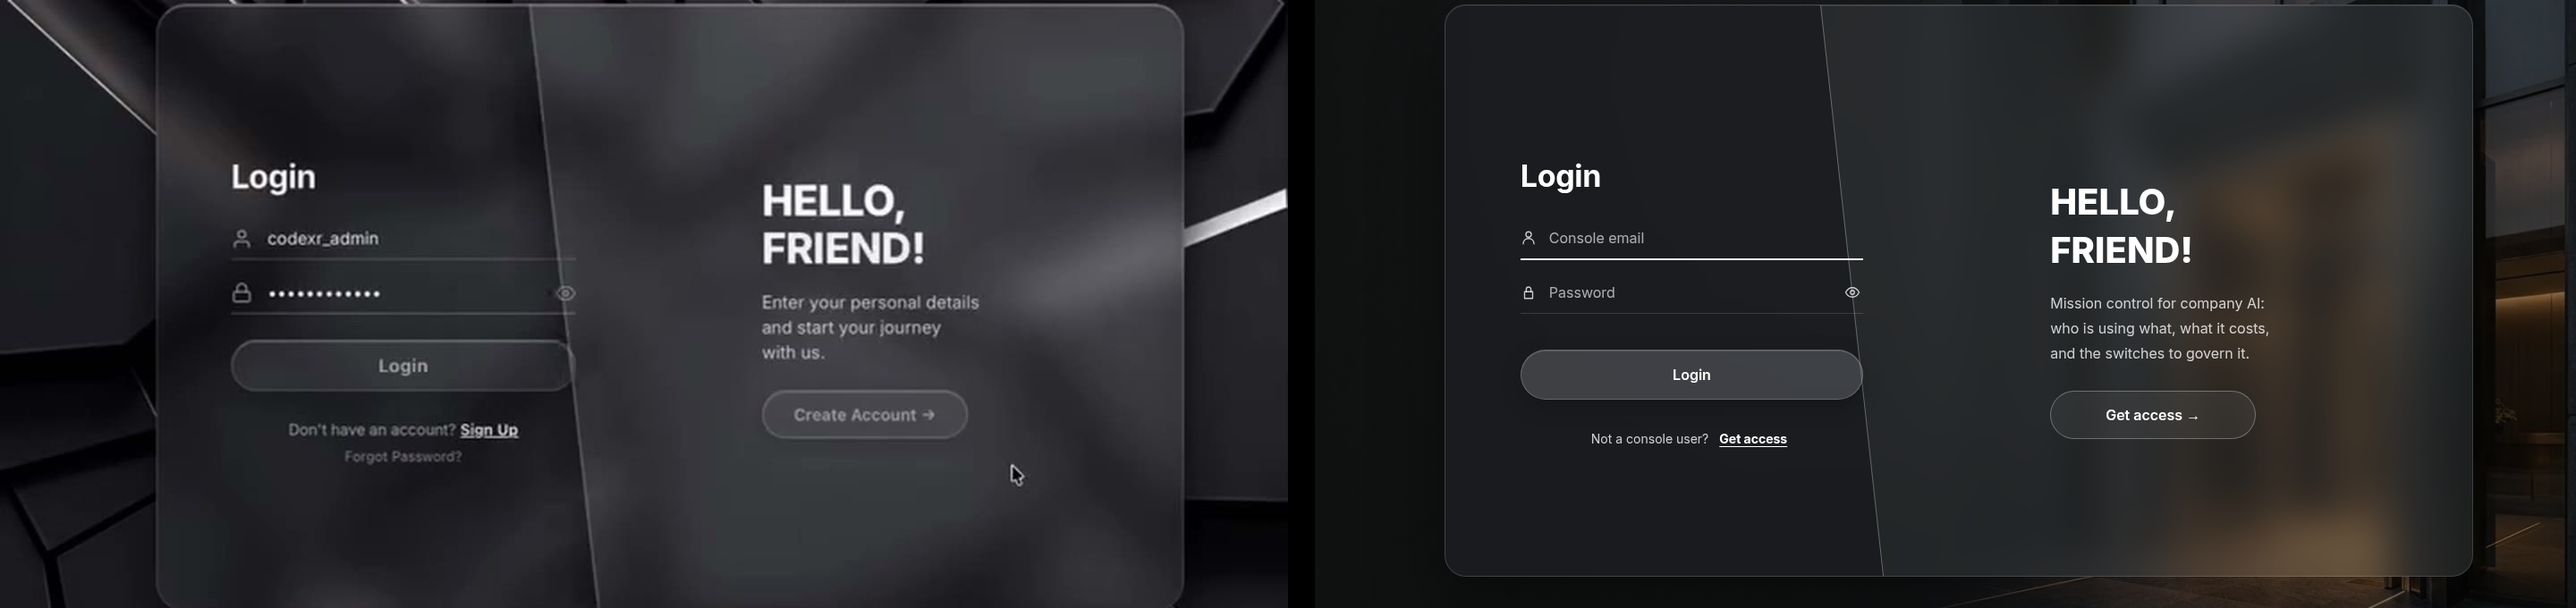
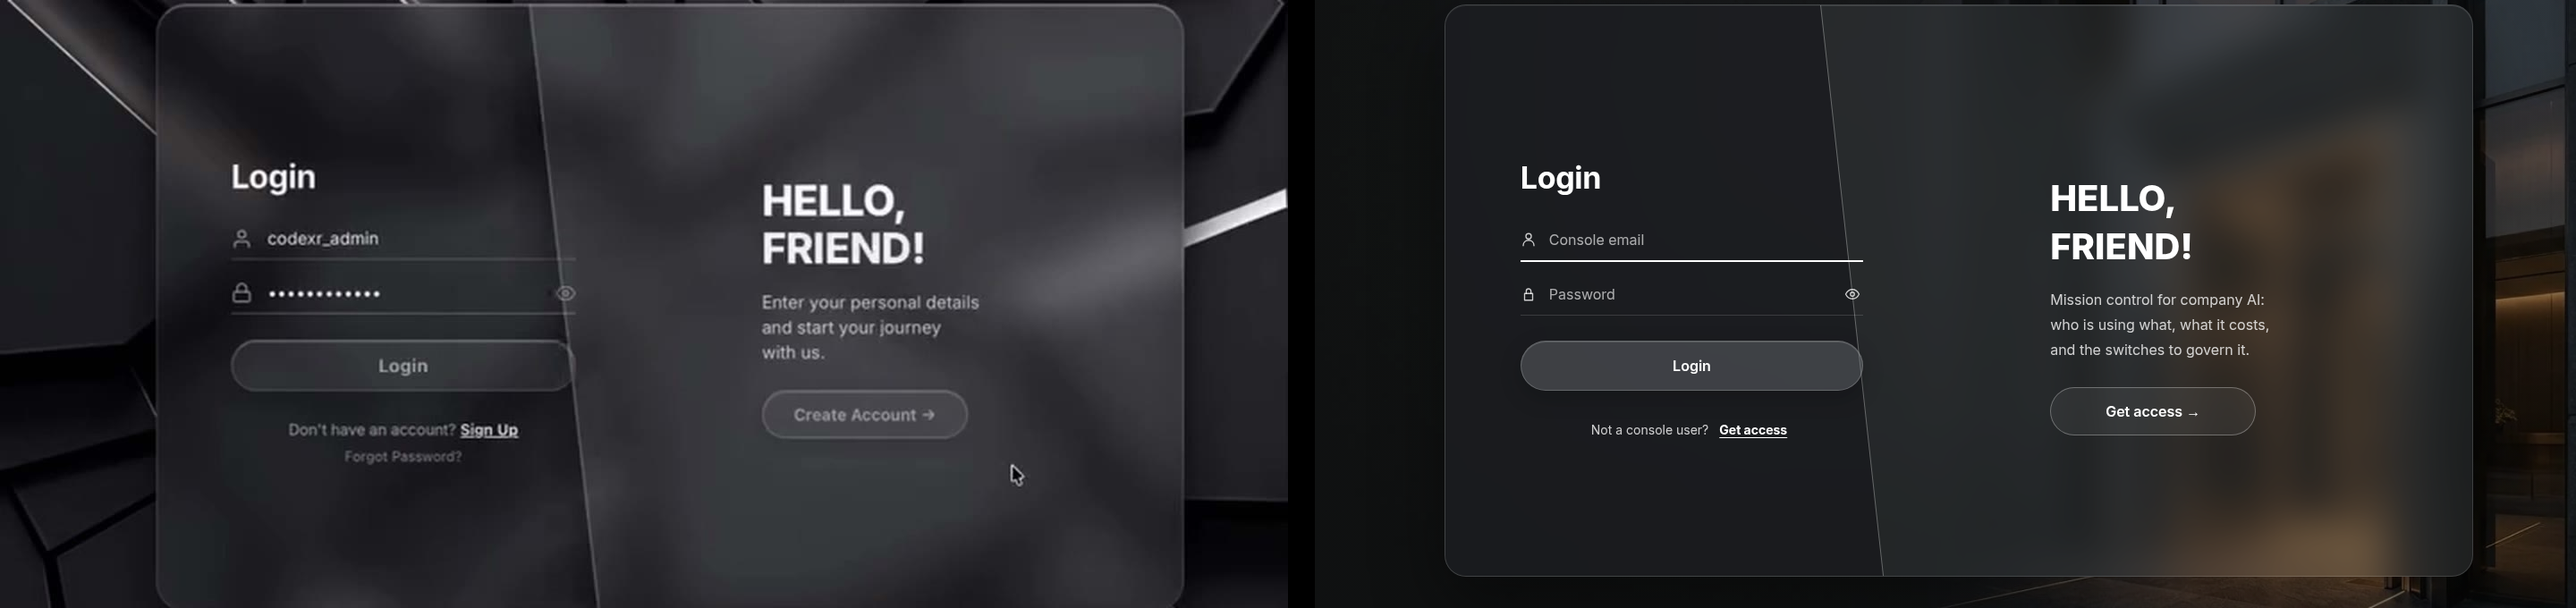
Sign-in: fix Probe's three visual blockers on the split gate
- The reserved alert row is 28px (was 40) and the form starts 2px higher, so the
  email and password underlines, the Login button and the links row sit within 4px
  of login-05. A one-line error moves nothing; a longer one wraps and grows the
  form and is never clipped. The false "a long error never moves text" claim is gone.
- The swap follows glass-login.mp4: the old words fade out in 140ms, the glass is
  bare for two frames, the new words fade in after 190ms over 200ms. The two are
  never visible together. Reduced motion is still instant.
- The card stays invisible until the server's /auth/options answer arrives (or
  1.2s), so a late Google button and divider cannot shift visible content. The
  request and its handling are unchanged.
- signin.cjs now asserts the reference positions, a growing unclipped long error at
  200% zoom and on a phone, the swap frame by frame, reduced motion and the late
  Google answer on both apps and both widths. Evidence and README regenerated.

diff --git a/gateway/static/exact-signin.css b/gateway/static/exact-signin.css
@@ -23,7 +23,8 @@ body:has(.xgate) { --scene-image: url("/static/login-welcome.webp"); --scene-scr
   --xg-form: rgba(20, 20, 24, .55);
   --xg-hello: rgba(70, 74, 78, .35);
   --xg-bad: #FFB4AB;
-  --xg-dur: 600ms;
+  --xg-dur: 570ms;                                  /* the seam planes: login-03/04 settle in about 570ms */
+  --xg-out: 140ms; --xg-in: 200ms; --xg-in-delay: 190ms;  /* the words: out in ~4 frames, a beat of bare glass, in over ~5 frames (frames 48-60 of glass-login.mp4 at 30fps) */
   --xg-ease: cubic-bezier(.4, 0, .2, 1);
   /* the seam, as a share of the card width: top edge, bottom edge (login-05: 420→490 of 1150; login-02: 535→610) */
   --xg-a-top: 36.5%; --xg-a-bot: 42.6%; --xg-b-top: 46.5%; --xg-b-bot: 53%;
@@ -56,9 +57,9 @@ body:has(.xgate) { --scene-image: url("/static/login-welcome.webp"); --scene-scr
 .xgate [data-mode="a"] > .xg-pane::before, .xgate [data-mode="b"] > .xg-pane::after { opacity: 1; }
 
 /* ---- the four sections share one grid cell, so the card grows with the tallest (long errors, big text, zoom) */
-.xgate .xg-form, .xgate .xg-hello { position: relative; z-index: 1; grid-area: 1 / 1; align-self: center; margin-block: 56px; padding-top: 40px; min-width: 0;
+.xgate .xg-form, .xgate .xg-hello { position: relative; z-index: 1; grid-area: 1 / 1; align-self: center; margin-block: 56px; padding-top: 32px; min-width: 0;
   opacity: 1; transform: none;
-  transition: opacity var(--xg-dur) var(--xg-ease), transform var(--xg-dur) var(--xg-ease), visibility 0s linear 0s; }
+  transition: opacity var(--xg-in) ease-out var(--xg-in-delay), transform var(--xg-in) ease-out var(--xg-in-delay), visibility 0s linear 0s; }
 .xgate .xg-form { width: 33.4%; }
 .xgate .xg-hello { width: 28%; max-width: 330px; }
 .xgate .xg-form-a  { margin-left: 7.3%; }
@@ -67,7 +68,7 @@ body:has(.xgate) { --scene-image: url("/static/login-welcome.webp"); --scene-scr
 .xgate .xg-form-b  { margin-left: 59%; }
 /* the section that is not showing: out of sight, out of reach (the script also makes it inert), parked to its own side */
 .xgate .xg-form[aria-hidden="true"], .xgate .xg-hello[aria-hidden="true"] { opacity: 0; visibility: hidden; pointer-events: none;
-  transition: opacity var(--xg-dur) var(--xg-ease), transform var(--xg-dur) var(--xg-ease), visibility 0s linear var(--xg-dur); }
+  transition: opacity var(--xg-out) ease-out 0s, transform var(--xg-out) ease-out 0s, visibility 0s linear var(--xg-out); }
 .xgate .xg-form-a[aria-hidden="true"], .xgate .xg-hello-b[aria-hidden="true"] { transform: translateX(-56px); }
 .xgate .xg-form-b[aria-hidden="true"], .xgate .xg-hello-a[aria-hidden="true"] { transform: translateX(56px); }
 
@@ -92,8 +93,13 @@ body:has(.xgate) { --scene-image: url("/static/login-welcome.webp"); --scene-scr
 .xgate .xg-eye:hover { color: #fff; background: rgba(255, 255, 255, .08); }
 .xgate .xg-eye[aria-pressed="true"] { color: #fff; }
 
-/* ---- the alert row keeps its room, so an error appearing moves nothing; a long one wraps and the card grows */
-.xgate [role="alert"] { display: block; min-height: 40px; margin: 0; font: 500 14px/1.5 var(--xg-font); color: var(--xg-bad); overflow-wrap: anywhere; word-break: break-word; }
+/* ---- the alert row keeps 30px (the reference's gap between the password and the button), so a one-line error moves nothing;
+   a longer one wraps and the card grows, never clipped */
+.xgate [role="alert"] { display: block; min-height: 28px; margin: 0; font: 500 14px/1.5 var(--xg-font); color: var(--xg-bad); overflow-wrap: anywhere; word-break: break-word; }
+
+/* ---- until the server has said whether Google is offered, the card is not painted: the Google button and its divider
+   arrive with that answer, and showing the card first would move everything under it (no layout shift) */
+.xgate.xg-wait .xgate-card { visibility: hidden; }
 
 /* ---- buttons: primary = full-width 56px translucent pill; ghost = 230 x 54 with a rim and an arrow */
 .xgate .xg-primary { display: flex; align-items: center; justify-content: center; width: 100%; min-height: 56px; padding: 0 24px; border-radius: 999px; text-decoration: none;

diff --git a/gateway/static/ui.js b/gateway/static/ui.js
@@ -945,7 +945,7 @@
   /* The reference sign-in (BRIEF §10.3, login-02/05): one glass card split by a slanted seam. One side holds a form,
      the other a big uppercase greeting with a ghost pill; the pill swaps the two sides with a slide. The Hub has no
      self sign-up, so the second mode is "how to get access" rather than "create account".
-     o: { a: {title, body:[nodes], focus}, b: {title, body:[nodes]}, helloA: {h, p, btn}, helloB: {h, p, btn}, brand }
+     o: { a: {title, body:[nodes], focus}, b: {title, body:[nodes]}, helloA: {h, p, btn}, helloB: {h, p, btn}, brand, ready }
      Visual only: the forms keep their own submit handlers. Only the form pane that is showing is reachable
      (the others are inert), exactly one of the two form titles is the page's h1, a password never stays revealed
      across a submit or a swap, and nothing here sets focus on first paint (the caller does that). */
@@ -984,7 +984,24 @@
     card.append(el("div", { class: "xg-pane xg-pane-form", "aria-hidden": "true" }), el("div", { class: "xg-pane xg-pane-hello", "aria-hidden": "true" }),
       parts.formA, parts.helloA, parts.formB, parts.helloB);
     swap("a", false);
-    return { node: el("main", { class: "xgate" }, o.brand || null, card, o.foot || null), swap: (m) => swap(m, true) };
+    const node = el("main", { class: "xgate" }, o.brand || null, card, o.foot || null);
+    // o.ready (a promise the caller already has, e.g. "does the server offer Google?"): the card is not painted until it settles,
+    // so what it adds cannot move what is on screen. It never blocks sign-in: a failed answer counts as an answer, and after
+    // 1.2s the card shows anyway. Showing it moves focus to the form only if nothing else has focus (an event, not a timer race).
+    if (o.ready) {
+      node.classList.add("xg-wait");
+      let cap = 0;
+      const show = () => {
+        clearTimeout(cap);
+        if (!node.classList.contains("xg-wait")) return;
+        node.classList.remove("xg-wait");
+        const f = o.a.focus;
+        if (f && card.isConnected && card.dataset.mode === "a" && (!document.activeElement || document.activeElement === document.body)) f.focus({ preventScroll: true });
+      };
+      cap = setTimeout(show, 1200);
+      Promise.resolve(o.ready).then(show, show);
+    }
+    return { node, swap: (m) => swap(m, true) };
   }
   function eyeToggle(input) {
     const b = el("button", { type: "button", class: "xg-eye", "aria-label": "Show password", "aria-pressed": "false", onclick: () => {

diff --git a/gateway/static/admin.js b/gateway/static/admin.js
@@ -600,8 +600,9 @@
     if (code) history.replaceState(null, "", location.pathname + location.hash);
     const err = el("div", { class: "err", role: "alert" }, code ? (AUTH_ERRORS[code] || "Sign-in didn't work. Try again.") : "");
     const google = el("div", { class: "google-box" });
+    let optionsKnown;
     if (!GATEWAY) {
-      fetch("/auth/options", { credentials: "include" }).then((r) => (r.ok ? r.json() : {})).then((opt) => {
+      optionsKnown = fetch("/auth/options", { credentials: "include" }).then((r) => (r.ok ? r.json() : {})).then((opt) => {
         if (opt.google) google.append(el("a", { class: "btn google", href: "/auth/google/start?app=admin" }, googleMark(), "Continue with Google"),
           el("div", { class: "or" }, el("span", null, "or with your account email")));
       }).catch(() => { /* no Google button */ });
@@ -631,6 +632,7 @@
     err, go,
     el("p", { class: "xg-links" }, "Not a console user? ", el("button", { type: "button", class: "xg-link", onclick: () => gate.swap("b") }, "Get access")));
     gate = SUI.splitGate({
+      ready: optionsKnown,
       brand: el("a", { class: "xg-brand", href: "/admin" }, el("img", { src: "/static/icon.svg", alt: "" }), "Swangz ", el("b", null, "AI Hub"), el("small", null, "Control room")),
       a: { title: "Login", body: [google, form], focus: user },
       b: { title: "Get access", body: [el("div", { class: "xg-fields" },

diff --git a/gateway/static/portal.js b/gateway/static/portal.js
@@ -161,7 +161,7 @@
     const google = el("div");
     const googleB = el("div", { class: "xg-gB" });
     // Google is offered only when the server says so; mode B reuses the same link (no divider there)
-    googleButton("staff", "Continue with Google").then((b) => {
+    const optionsKnown = googleButton("staff", "Continue with Google").then((b) => {
       google.replaceWith(b);
       const link = b.querySelector("a[href]");
       if (link) {
@@ -187,6 +187,7 @@
     err, go,
     el("p", { class: "xg-links" }, "First time here? ", el("button", { type: "button", class: "xg-link", onclick: () => gate.swap("b") }, "Get access")));
     gate = SUI.splitGate({
+      ready: optionsKnown,
       brand: el("a", { class: "xg-brand", href: "#/" }, el("img", { src: "/static/icon.svg", alt: "" }), "Swangz ", el("b", null, "AI Hub")),
       a: { title: "Login", body: [google, form], focus: email },
       b: { title: "Get access", body: [el("div", { class: "xg-fields" },

diff --git a/docs/screenshots/exact-signin/README.md b/docs/screenshots/exact-signin/README.md
@@ -6,16 +6,23 @@ Files per app (`console` = /admin, `staff` = /): `<app>-login|access-<1440|390>-
 (the still is 1440×680 with the card at x175/y5; ours is centred in 852px, so the capture is shifted by 30/−101).
 `beside-*` puts the still and ours side by side. Overlay captures have Google off (the reference has no Google button).
 
-Measured against the stills (dark, 1440): card edge, seam, headings, fields and ghost pill within ±4px.
+Measured against the stills (dark, 1440): card edge, seam, headings, fields and ghost pill within ±4px (text ink rows, Login left heading 185–217 vs 184–216; Get access left heading 221–249 and 275–303 vs 222–253 and 275–307).
+Colours (mean of regions, ±16 per channel): left pane 6 and 4 off in Login; the card's top strip and the left pane in Get access sit 17–22 off because our glass is tinted by our own photo (10.1.2); page areas differ by the photo itself (10.1.2).
+
+**The swap** follows `glass-login.mp4` (30fps; stills 48–60): the old words fade out in 4 frames (140ms), the glass is bare for frames 4–5, the new words fade in over frames 6–12 (190ms delay, 200ms), the two planes and the card settle over 570ms. The old and new words are never visible together. Reduced motion: everything instant. `signin.cjs` pauses the animations and reads opacity at each 1/30s frame, so the laptop's slow rendering cannot change the answer.
+
+**Google arriving late.** The card stays invisible (`visibility:hidden`, which layout-shift scoring ignores) until the server's answer to `/auth/options` arrives or 1.2s passes, so the Google button and divider never push visible content. With `/auth/options` delayed 400ms: layout shift 0.000000 inside the card on both apps at 1440×852 and 390×844 and the Login button stays put. The only shift left is the brand wordmark's web-font swap outside the card (≤0.00005, measured on a raw run). The request and its handling are unchanged.
+
+**The grey box on the Netlify Deploy Preview** (x330–1110, y804, 780×48) is not part of the product: it is an iframe Netlify injects into previews (`https://app.netlify.com/cdp/?deployID=…`). The repo has no iframe and no reference to that address, and the box is absent from the local demo captures here.
 
 Remaining differences, each tagged with its BRIEF §10.1 number:
 - 10.1.1 The brand mark and wordmark at top-left (Swangz "S"), and our words (Login, HELLO, FRIEND!, Work email / Console email).
 - 10.1.2 Background is our `login-welcome.webp`, not their photo.
-- 10.1.3 The alert row under the password is reserved (40px) so an error never moves the button: the button and the links row sit 11px lower than the still.
+- 10.1.3 The alert row under the password is reserved (28px, a 30px gap in the still's spacing) so a one-line error moves nothing; a longer error wraps and grows the form, never clipped. Measured (dark, 1440, card-relative, Google off): email underline 286.5 vs 286, password underline 347.5 vs 347, button top 375.5 vs 374 and bottom 431.5 vs 432, links centre 475.5 vs 476 (all within ±4, asserted by `signin.cjs`).
 - 10.1.3 Contrast, focus ring (2px white), 44px hit targets on the eye and links, inert inactive pane, reduced-motion fallback; below 860px the card stacks (greeting under the form).
-- 10.1.4 Mode B is "Get access" (the Hub has no self sign-up): a short note (staff: plus a Google link only when the server offers Google, no divider) instead of the three Create Account fields, so its title sits lower.
+- 10.1.4 Mode B is "Get access" (the Hub has no self sign-up): a short note (staff: plus a Google link only when the server offers Google, no divider) instead of the three Create Account fields, so its title sits lower (ink 228–252 against the still's 167–191) and its button sits 20px higher (427 against 447).
 - 10.1.4 "Forgot Password?" is dropped (an admin resets passwords); "Don't have an account? Sign Up" reads "Get access".
 - 10.1.4 The Google button and its "or" divider appear only when the server offers Google (exact href, never clicked by the tests).
 - Light theme: the sign-in looks the same as dark by design (the reference has one look).
 
-Checks: `node tests/browser/signin.cjs` (both apps; wrong/correct password, auth_error text and URL removal, Google on/off, eye, inert panes and Tab order, hit targets at both widths, CSP, one h1, reserved alert space, long error at 200% zoom, contrast, mocked valid and expired welcome).
+Checks: `node tests/browser/signin.cjs` (both apps; wrong/correct password, auth_error text and URL removal, Google on/off, eye, inert panes and Tab order, hit targets at both widths, CSP, one h1, reserved alert space, reference positions, the frame-by-frame swap, reduced motion, 400ms-late Google options (CLS), a long error growing at 200% zoom and on a phone without clipping, contrast, mocked valid and expired welcome).
